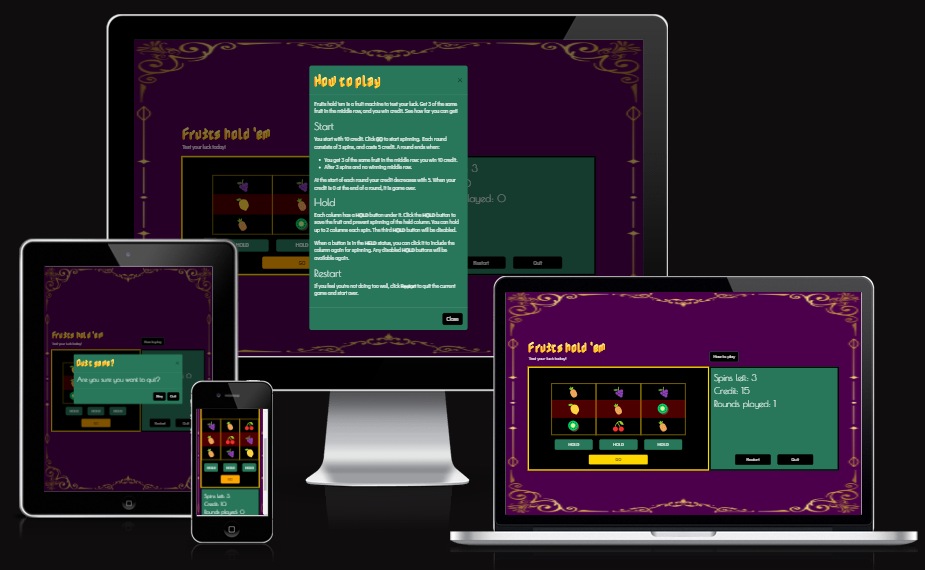
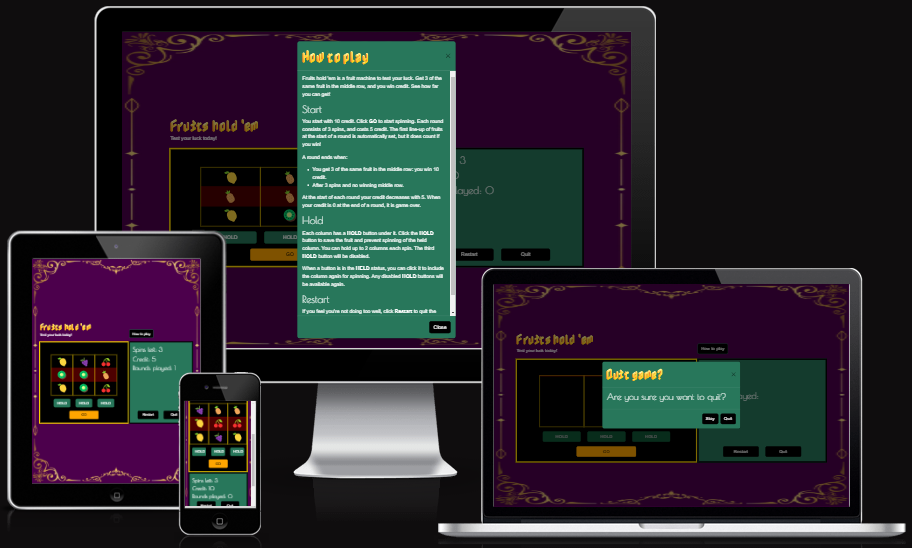
Docs: update screenshot, small additions

diff --git a/README.md b/README.md
@@ -7,6 +7,7 @@
 Click **GO** and the fruit images will line up randomly each spin. You get three spins in one round to try to get a winning middle row with three of the same fruits. You can hold up to two fruits so that you can increase your chance to win. If you win a round, you earn credit. You can keep track of your credit, how many spins you have left the current round, and how many rounds you have played. You can play until your credit is finished, or when you click one of the buttons **Restart** or **Quit**. The button **How to play** triggers a dialog box with the rules of the game.
 
 ![Screenshot webpages on different devices](docs/screenshots/responsive-website.png)
+Generated by [Am I Responsive](https://ui.dev/amiresponsive).
 
 ## Index
 - [Planning](#planning)
@@ -143,7 +144,7 @@ For my fruit images, I use HTML symbols. I chose fruits that look distinctive to
 The background image is from [Canva](https://www.canva.com/). Originally a black background with gold decoration, I changed the background to purple and removed the outer fram of the decoration, but kept the curly decoration and in the same colour as it was. I think the image enhances the luxury feeling I want to convey.
 
 
-The favicon is an image of the **'em** in the logo. To create the favicon files, I used [RealFaviconGenerator](https://realfavicongenerator.net/).
+The favicon is an image of the **'em** in the logo in font *Nabla*. To create the favicon files, I used [RealFaviconGenerator](https://realfavicongenerator.net/).
 
 
 The logo is the game name written in font *Nabla*, and in *Passero One* for the Safari browser.
@@ -269,6 +270,7 @@ See [TESTING.md](TESTING.md).
 - [RealFaviconGenerator](https://realfavicongenerator.net/) for creating favicon icons and the html code, and checking the favicon
 - [Responsinator](http://www.responsinator.com/) for checking responsiveness
 - [Autoprefixer](https://autoprefixer.github.io/) for adding the necessary prefixes to my css stylesheet
+- [Am I Responsive](https://ui.dev/amiresponsive)
 
 ## Deployment and development
 
